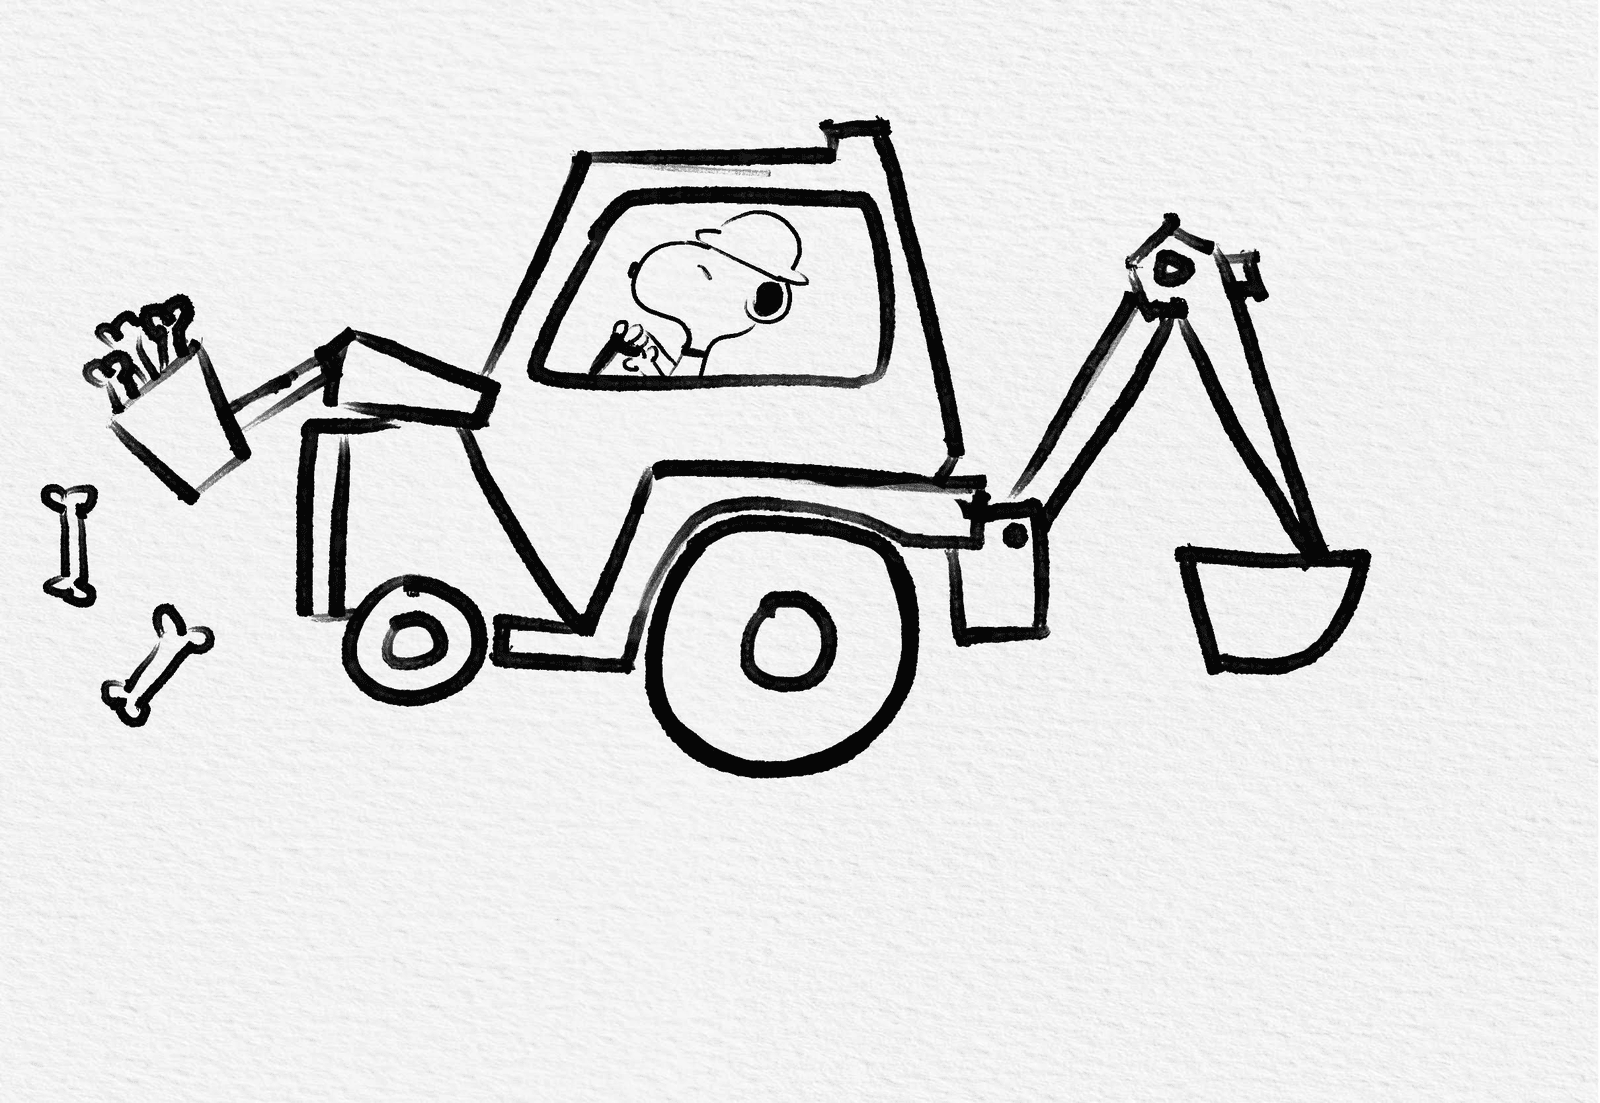
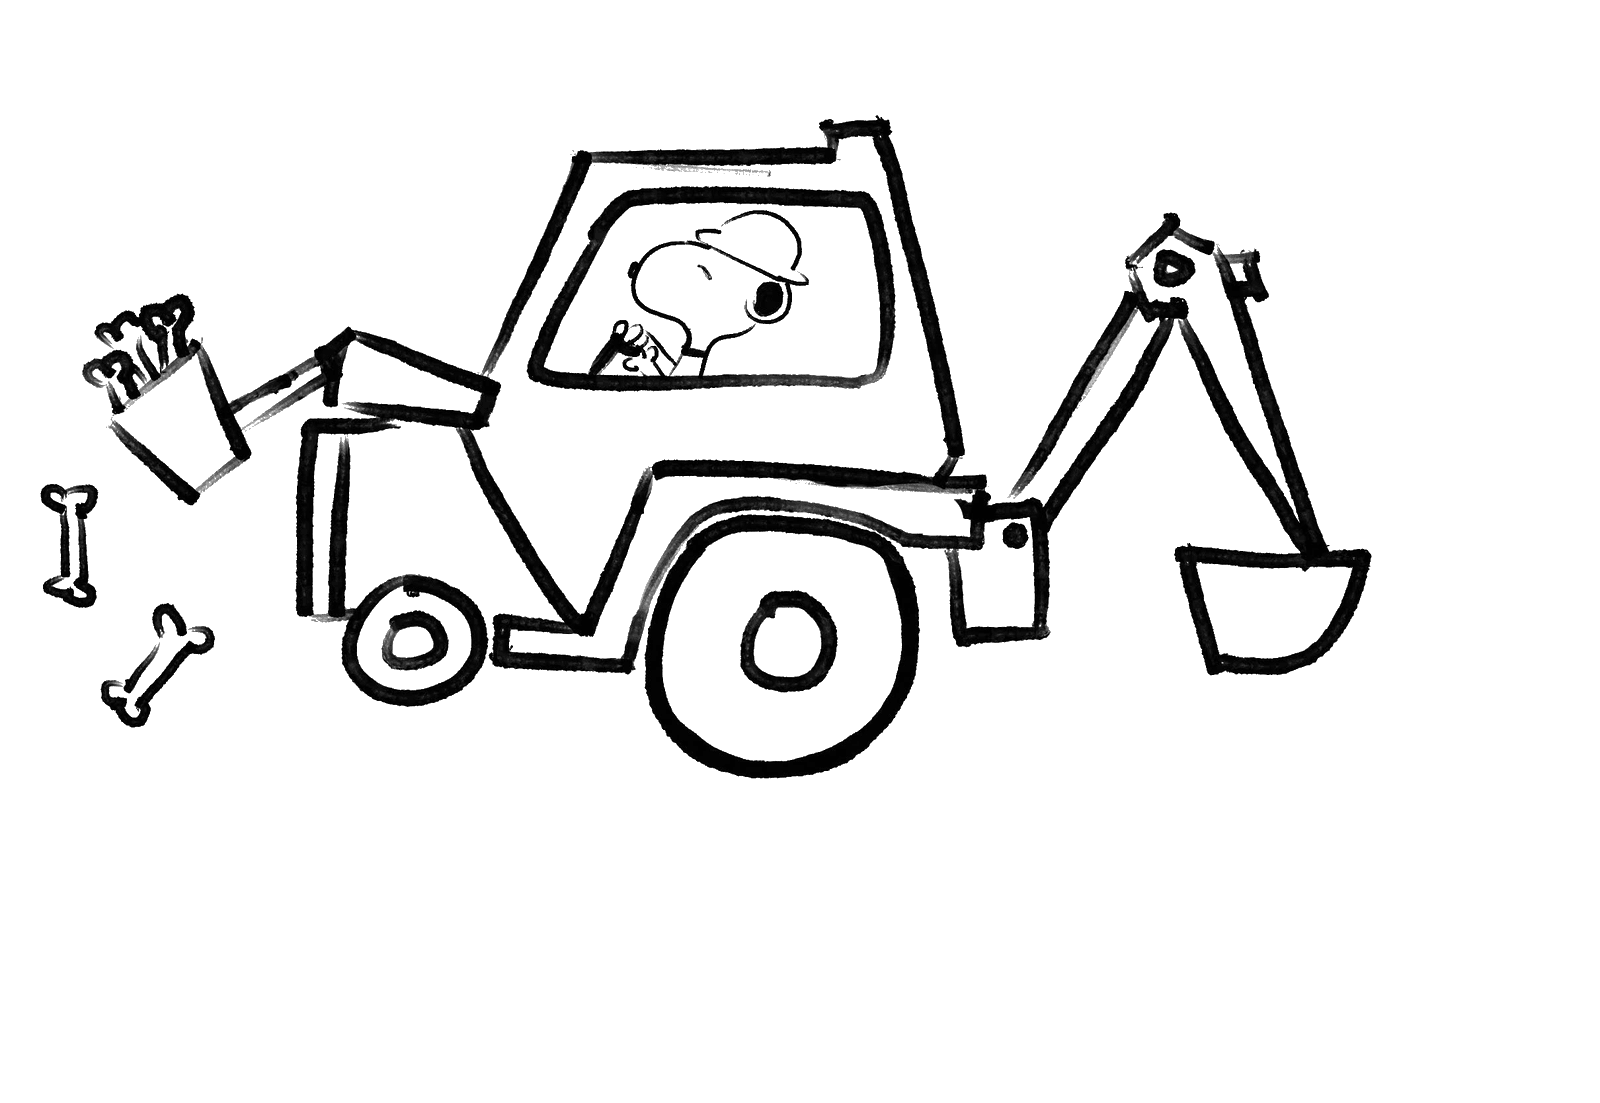
Blend the sketch into the page's paper (#2)
Lift the ink off the scan and tile the blank paper behind it, so the
drawing and the "in construction" line sit on one sheet with no edge.

diff --git a/style.css b/style.css
@@ -7,8 +7,10 @@
 }
 
 :root {
-  --paper: #f4f4f4;
+  --paper: #f3f3f3;
   --ink: #161616;
+  --pad-x: clamp(1.1rem, 4vw, 2.5rem);
+  --drawing: min(56rem, calc(100vw - 2 * var(--pad-x)));
 }
 
 *,
@@ -18,7 +20,14 @@
 }
 
 html {
-  background: var(--paper);
+  background-color: var(--paper);
+  background-image: url("paper.png");
+  background-image: image-set(
+    url("paper.webp") type("image/webp"),
+    url("paper.png") type("image/png")
+  );
+  background-repeat: repeat;
+  background-size: calc(var(--drawing) * 960 / 1600);
   color: var(--ink);
 }
 
@@ -28,7 +37,7 @@ body {
   min-height: 100dvh;
   display: grid;
   place-items: center;
-  padding: clamp(1.5rem, 5vw, 3.5rem) clamp(1.1rem, 4vw, 2.5rem);
+  padding: clamp(1.5rem, 5vw, 3.5rem) var(--pad-x);
 }
 
 main {

diff --git a/README.md b/README.md
@@ -2,6 +2,8 @@
 
 Single page for [romina.work](https://romina.work): a drawing, and the line “in construction.”
 
+The ink sits on a seamless tile of the sketch’s own blank paper (`paper.webp`, with a PNG fallback), so the sheet and the caption share one background.
+
 Static HTML and CSS at the repository root, for GitHub Pages from the `main` branch (Deploy from a branch, folder `/`). `.nojekyll` keeps Pages from running Jekyll. The domain is set in `CNAME`.
 
 The caption is set in [Newsreader](https://github.com/productiontype/Newsreader), licensed under the SIL Open Font License (`fonts/OFL.txt`).
